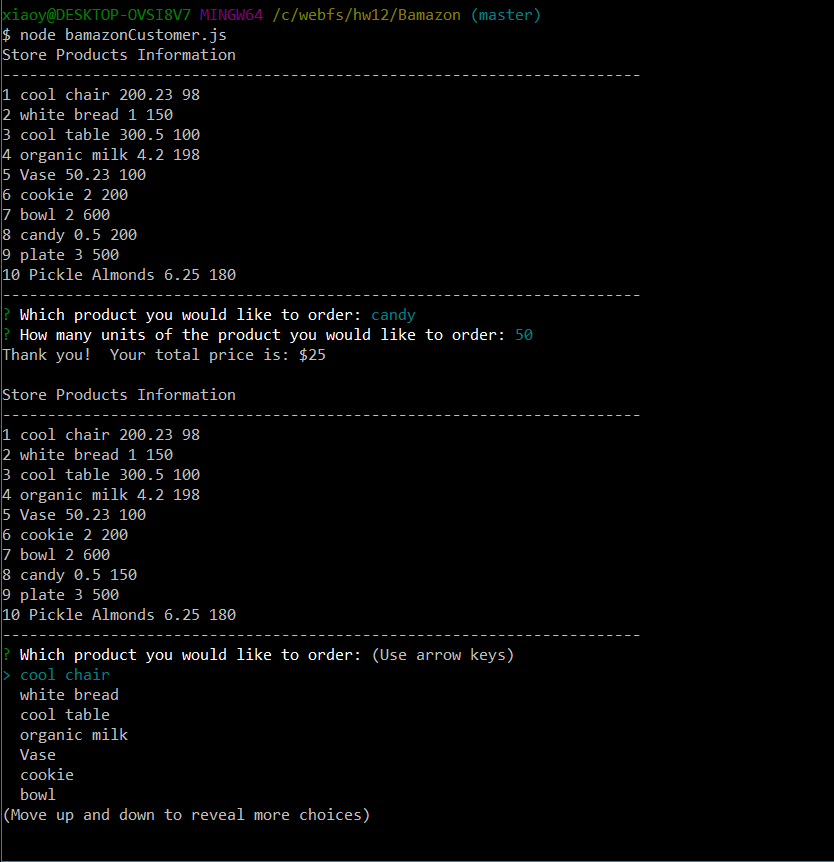
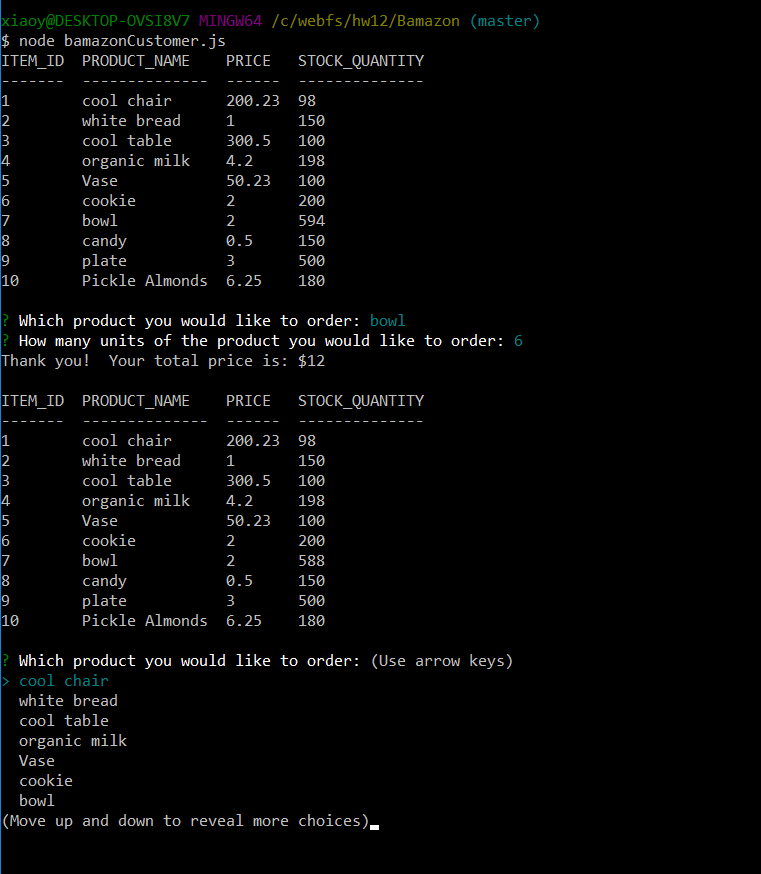
update to use console.table to display sale items

diff --git a/bamazonCustomer.js b/bamazonCustomer.js
@@ -1,5 +1,6 @@
 var mysql = require("mysql");
 var inquirer = require("inquirer");
+require('console.table');
 var productsInStore = [];
 
 //get the MySQL DB connection
@@ -27,19 +28,20 @@ function makeOrder(){
 	//Include the ids, names, and prices of products for sale. DEPARTMENT_NAME, 
     var query = "SELECT ITEM_ID, PRODUCT_NAME, PRICE, STOCK_QUANTITY from PRODUCTS";
     dbconn.query(query, function(err, res) {
+    	if (err) 
+  			throw err;
+
+    	console.table(res);
     	//empty productsInStore array for reset
-    	console.log("Store Products Information");
-    	console.log("-----------------------------------------------------------------------");
     	productsInStore.length = 0; 
         for (var i = 0; i < res.length; i++) {
-          console.log(res[i].ITEM_ID + ' ' + res[i].PRODUCT_NAME + ' ' + res[i].PRICE + ' ' + res[i].STOCK_QUANTITY);
           productsInStore.push({
 			  name: res[i].PRODUCT_NAME,
 			  value: res[i].ITEM_ID,
 			  //short: 'The long option'
 			});
      	}
-    	console.log("-----------------------------------------------------------------------");
+
 		// then prompt users with two messages.
 		// The first should ask them the ID of the product they would like to buy.
 		// The second message should ask how many units of the product they would like to buy.
@@ -61,6 +63,9 @@ function makeOrder(){
 	    	//console.log(answers.itemId + ' ' + answers.quantity);
 	      	var query = "SELECT PRODUCT_NAME, PRICE, STOCK_QUANTITY from PRODUCTS WHERE ITEM_ID = ?";
 	      	dbconn.query(query, [answers.itemId], function(err, res) {
+	      		    if (err) 
+  						throw err;
+  					
 			        var stockQuantity = res[0].STOCK_QUANTITY;
 			        var price = res[0].PRICE;
 			        //console.log(stockQuantity + ' ' + price);

diff --git a/README.md b/README.md
@@ -2,8 +2,9 @@
 An Amazon-like storefront application implemented with MySQL DB, the inquirer and the mysql npm packages. 
 
 The application will first display all of the items available for sale, then prompt the customer with two messages:
-* Which product you would like to order
+* Which product you would like to order 
 * How many units of the product you would like to order
+where the product selection list is provided for the customer to pick for the first question.
 
 After the customer has selected the product and entered the quantity, the application checks if the store has enough of the product to meet the customer's request.  If the store does have enough of the product, it would update the SQL database to reflect the remaining quantity. Once the update goes through, it will show the customer the total cost of their purchase.  If not, it will tell the customer it has insufficient quantity and then prevent the order from going through.
 
